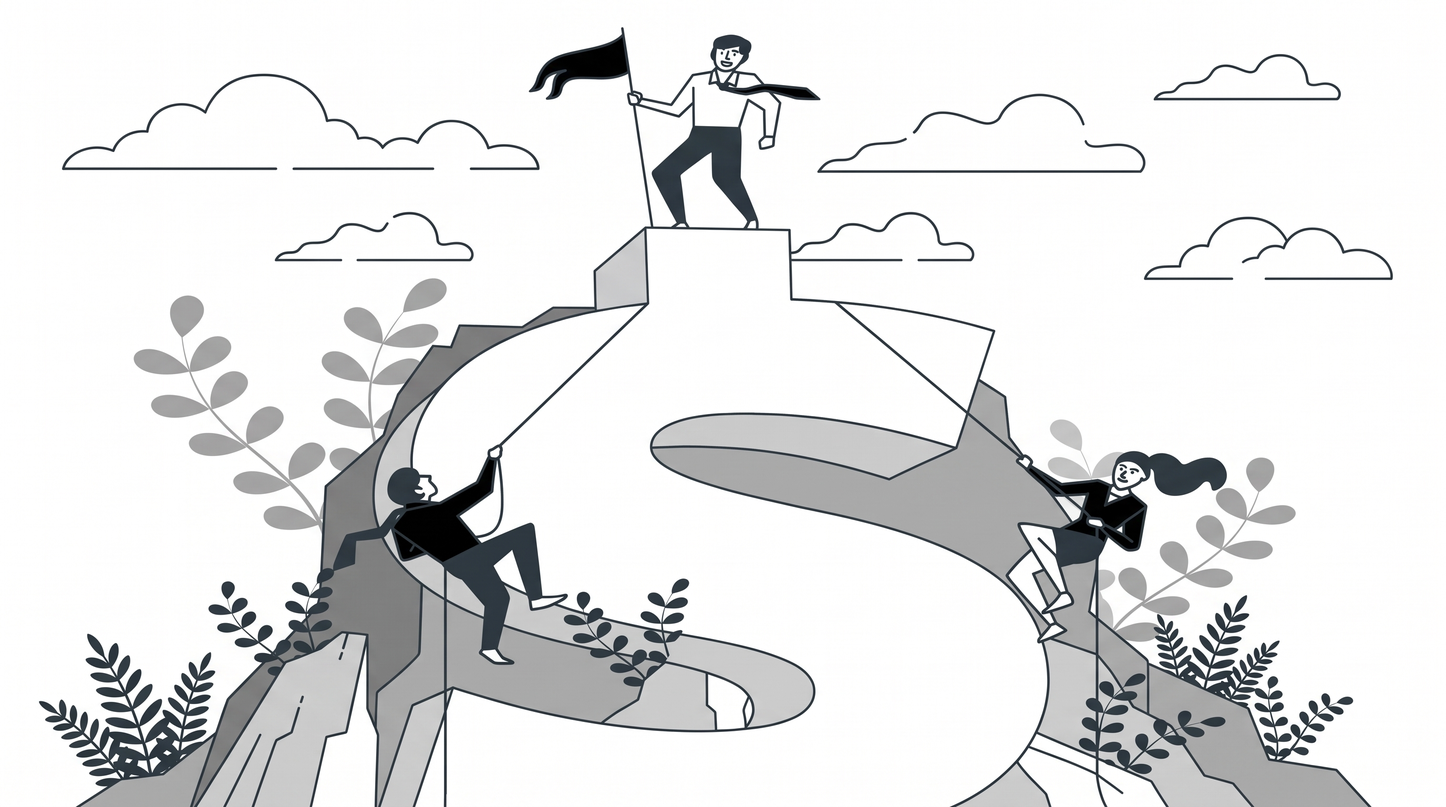
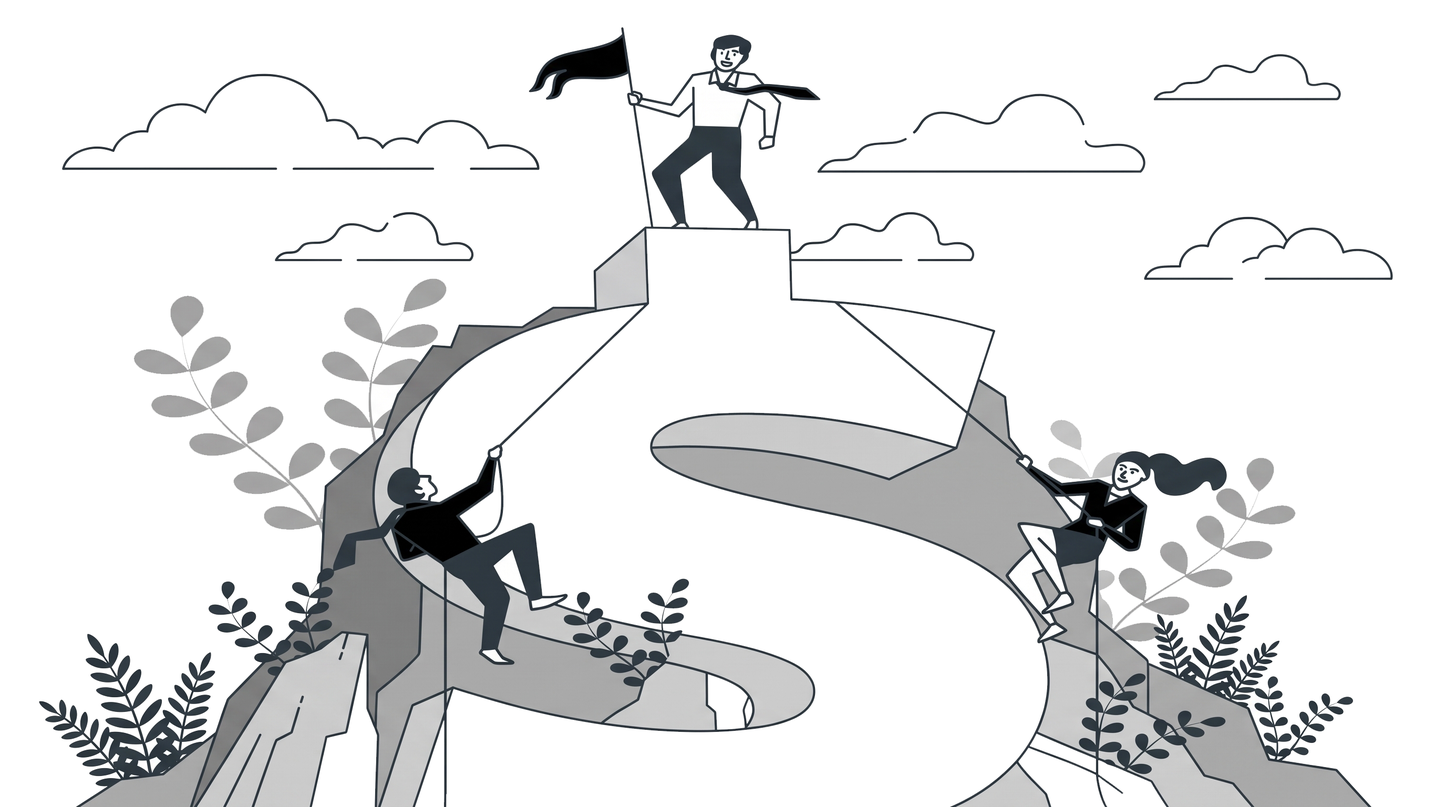
Add files via upload

diff --git a/style.css b/style.css
@@ -256,14 +256,16 @@ address {font-style: normal; }
 }
 .btn--outline {
     background: transparent;
-    color: var(--clr-black);
+    color: var(--clr-white);
+    background-color: var(--clr-black);
     border: 2px solid var(--clr-black);
     margin-top: 10px;
     margin-bottom: 10px;
 }
 .btn--outline:hover {
-    background: var(--clr-black);
-    color: var(--clr-white);
+    background: var(--clr-white);
+    color: var(--clr-black);
+    border: 3px solid var(--clr-black);
     box-shadow: 0 5px 15px var(--clr-black);
     transition: box-shadow var(--transition);
 }
@@ -299,17 +301,18 @@ address {font-style: normal; }
     text-transform: uppercase;
     color: var(--clr-black);
     margin-bottom: var(--space-6);
-    display: flex;
-    align-items: flex-start;
-    gap: var(--space-3);
-    flex-wrap: wrap;
+}
+.hero__icon-row {
+    display: inline-flex;
+    align-items: center;
+    gap: 12px;
 }
 .hero__icon {
-    width: 32px;
-    height: 32px;
+    width: 80px;
+    height: auto;
+    display: inline-block;
+    vertical-align: middle;margin-left: 12px;
     flex-shrink: 0;
-    margin-top: var(--space-2);
-    color: var(--clr-black);
 }
 .hero__text {
     animation: fadeUp 600ms ease both;
@@ -356,6 +359,7 @@ address {font-style: normal; }
     transform: translateY(-10px);
     box-shadow: 0 10px 30px rgba(0, 0, 0, 0.5);
     transition: box-shadow var(--transition);
+    border: var(--clr-black);
 }
 .card:nth-child(1) { animation: fadeUp 600ms ease both; animation-delay: 400ms;}
 .card:nth-child(2) { animation: fadeUp 600ms ease both; animation-delay: 520ms;}
@@ -372,7 +376,6 @@ address {font-style: normal; }
     align-items: center;
     justify-content: center;
 }
-.card__image svg { width: 100%; height: 100%;}
 .card__title {
     font-size: var(--text-2x1);
     font-weight: 700;

diff --git a/index.html b/index.html
@@ -33,7 +33,7 @@
             <section class="hero">
                 <div class="container hero__inner">
                     <div class="hero__content">
-                        <h1 class="hero__title">Интеллектуальное<br>Планирование
+                        <h1 class="hero__title">Интеллектуальное<br>Планирование<img src="lampa.png" alt="Лампочка" class="hero__icon">
                         </h1>
                         <p class="hero__text">Специализированная организация в сфере транспортных обследований, транспортно&#8209;экономических изысканий, транспортной аналитики и экспертизы любой сложности.</p>
                         <a href="#contacts" class="btn btn--filled">Начнем</a>
